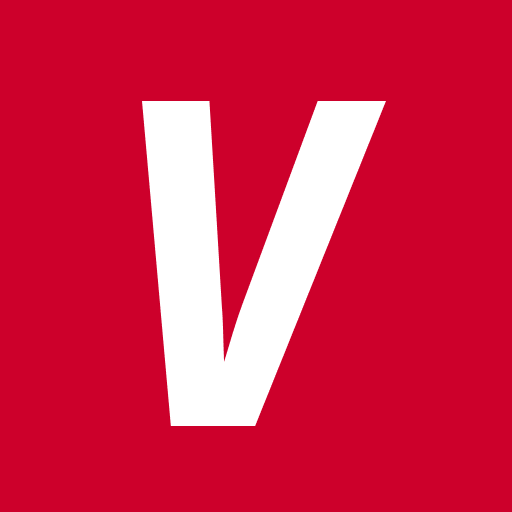
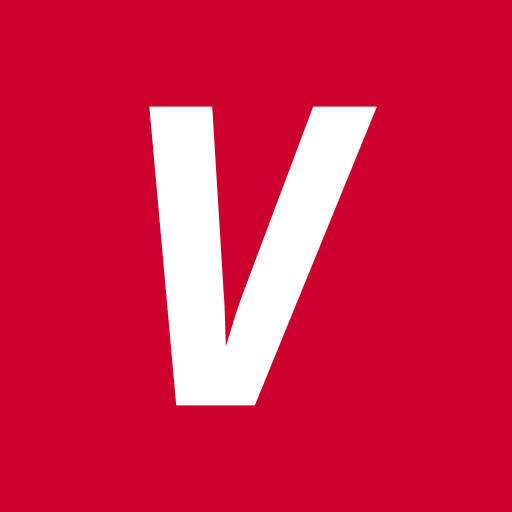
added pulldown to refresh, updated manifest images

diff --git a/src/components/Feed.tsx b/src/components/Feed.tsx
@@ -6,20 +6,21 @@ import PostCard from "./PostCard/PostCard";
 import Spinner from "./Spinner";
 
 export default function Feed({ feed }: { feed: "Home" | "Following" }) {
-  const { data, fetchNextPage, hasNextPage, isLoading } = useInfiniteQuery({
-    queryKey: ["homeFeed", feed],
-    queryFn: async ({ pageParam = 2147483647 }) => {
-      const res = await fetch(`/api/posts?postid=${pageParam}&feed=${feed}`);
-      return res.json();
-    },
-    getNextPageParam: (lastPage, _pages) => {
-      if (lastPage?.length >= 11) {
-        return lastPage[lastPage.length - 1].postid;
-      }
-      return undefined;
-    },
-    enabled: Boolean(feed),
-  });
+  const { data, fetchNextPage, hasNextPage, isLoading, refetch } =
+    useInfiniteQuery({
+      queryKey: ["homeFeed", feed],
+      queryFn: async ({ pageParam = 2147483647 }) => {
+        const res = await fetch(`/api/posts?postid=${pageParam}&feed=${feed}`);
+        return res.json();
+      },
+      getNextPageParam: (lastPage, _pages) => {
+        if (lastPage?.length >= 11) {
+          return lastPage[lastPage.length - 1].postid;
+        }
+        return undefined;
+      },
+      enabled: Boolean(feed),
+    });
 
   if (isLoading)
     return (
@@ -44,6 +45,17 @@ export default function Feed({ feed }: { feed: "Home" | "Following" }) {
           }
           next={fetchNextPage}
           className="flex flex-col gap-2.5 pb-2.5"
+          refreshFunction={refetch}
+          pullDownToRefresh
+          pullDownToRefreshThreshold={100}
+          pullDownToRefreshContent={
+            <h3 style={{ textAlign: "center" }}>
+              &#8595; Pull down to refresh
+            </h3>
+          }
+          releaseToRefreshContent={
+            <h3 style={{ textAlign: "center" }}>&#8593; Release to refresh</h3>
+          }
         >
           {data.pages.map((page: (Post | Repost)[]) => {
             return page
